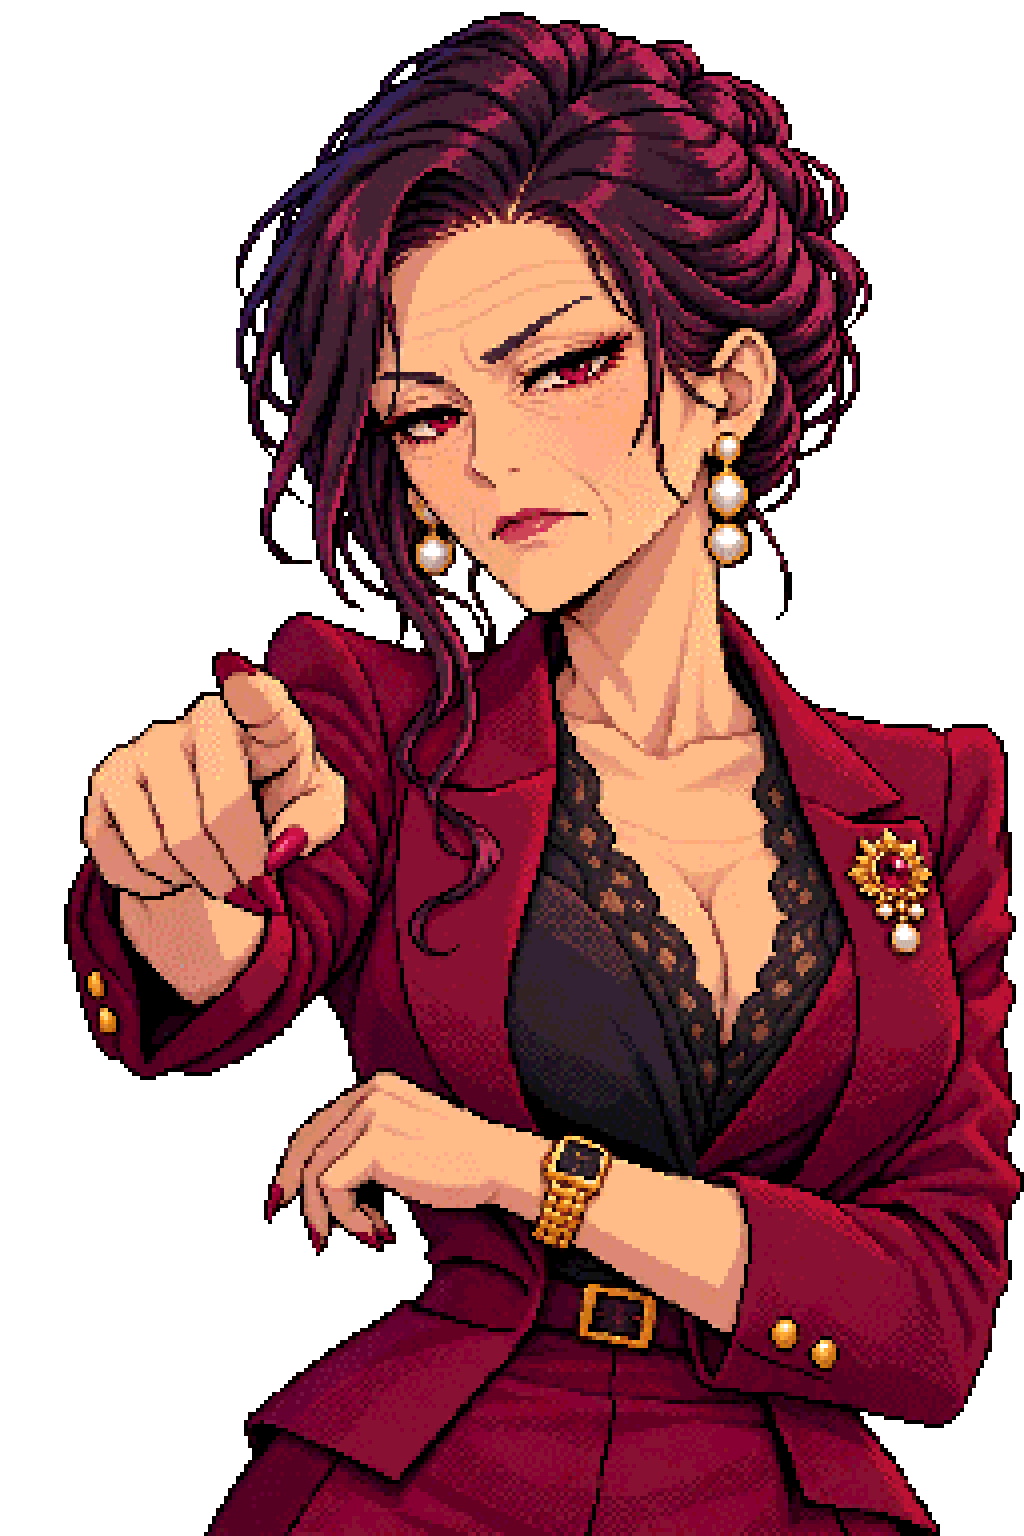
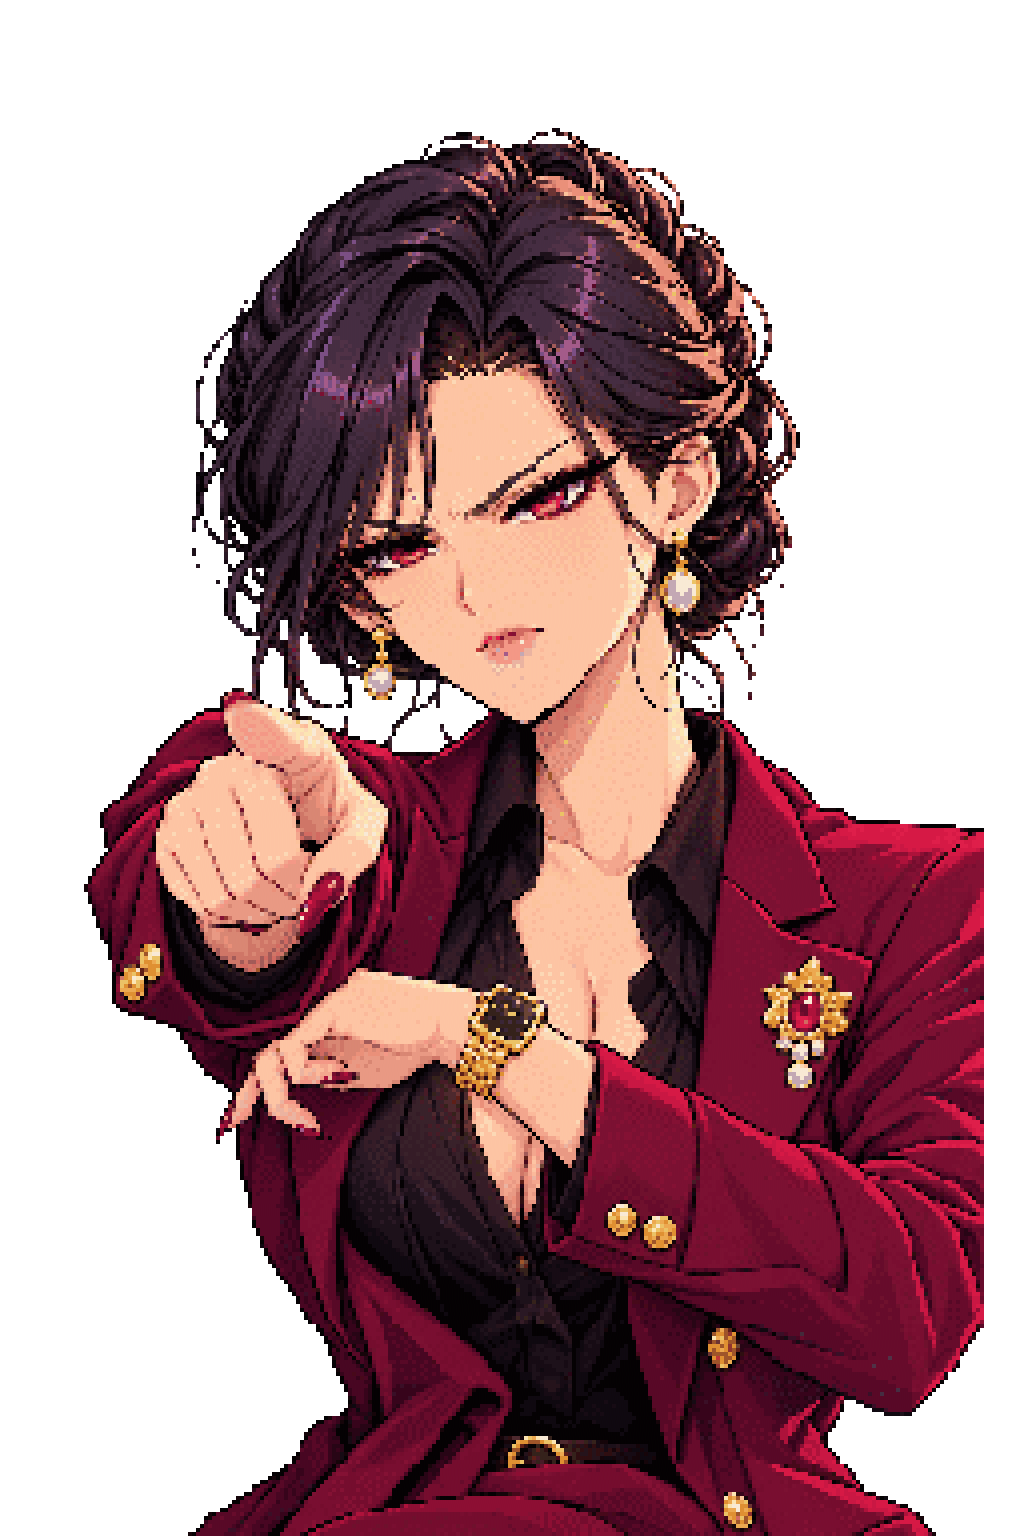
Tendo is 42, not 52: prompt and profile updated, previous portraits restored until re-generated
Claude-Session: https://claude.ai/code/session_01Eau5AueyeKfEKTxNRbKjxr

diff --git a/web/js/asset_prompts_ch2.js b/web/js/asset_prompts_ch2.js
@@ -6,7 +6,7 @@ Object.assign(CHARACTER_SHEETS, {
   pin: 'Character reference sheet of a sweet, dreamy 18-year-old bassist girl. Big soft rose-pink eyes, long fluffy silver-white hair down to her back with pastel coral-pink tips on the inner layer, a crossed silver hairpin on the bangs, a black beret with two small white plum-blossom flowers and a thin ribbon, a long black coat with white double-line trim and very wide sleeves embroidered with white plum blossoms, an off-shoulder white blouse with a big bow tie and a pink gem brooch, a black belt, short white shorts, a black lace-up garter on one thigh, a bass case covered in stickers. Black, white and rose-pink accents.',
   aoi: 'Character reference sheet of a cool 21-year-old drummer girl and band leader. Long navy-black hair in a high ponytail, calm sharp cobalt-blue eyes, silver ear cuffs, a black crop tank top under an open cobalt work shirt, low-slung cargo pants, drumsticks in her back pocket, taped fingers. Cobalt blue and black accents.',
   kuramochi: 'Character reference sheet of a quiet 28-year-old live-house lighting technician woman. Long brown hair in a low loose ponytail, tired honest amber eyes, a headset with microphone around her neck, a fitted black crew T-shirt with a small crescent moon logo, a tool belt, thick black work gloves always on her hands. Amber and black accents.',
-  tendo: 'Character reference sheet of an elegant, intimidating 52-year-old talent agency president woman, clearly in her fifties (fine wrinkles at the eyes and mouth, a mature face — not a young woman). Dark hair in a tight elegant updo, sharp smiling eyes with long lashes, deep wine-magenta tailored suit with a brooch, pearl earrings, and a very large square gold wristwatch on her left wrist that is always visible. Smiles politely but the eyes do not smile. Magenta and gold accents.',
+  tendo: 'Character reference sheet of a glamorous, intimidating 42-year-old talent agency president woman, a beautiful mature woman who looks late thirties: smooth skin with no wrinkles, sharp elegant features, attractive gacha-style adult beauty (not a young girl, not an old woman). Dark hair in a tight elegant updo, sharp smiling eyes with long lashes, deep wine-magenta tailored suit with a brooch, pearl earrings, and a very large square gold wristwatch on her left wrist that is always visible. Smiles politely but the eyes do not smile. Magenta and gold accents.',
   kirishima: 'Character reference sheet of a stern, handsome 34-year-old band manager man. Neat short black hair, narrow tired teal eyes, always in a plain black suit and dark tie, a radio transceiver clipped to the belt, a small worn notebook in the breast pocket. Bare wrists, no wristwatch. Teal green accents.',
 });
 

diff --git a/web/js/data_ch2.js b/web/js/data_ch2.js
@@ -409,6 +409,6 @@ Object.assign(PROFILES, {
   pin: '「크럼블」의 베이스 모모세 핀(18). 솜사탕 말투. 끝만 분홍인 흰 단발, 꽃 베레모. 루루를 동경한다.',
   aoi: '「크럼블」의 드럼이자 리더 사카키 아오이(21). 짧은 머리에 차분한 말투.',
   kuramochi: '라이브하우스 「크레센트」의 조명 기사 쿠라모치 시노(28). 점검표에 「이상 없음」이라고 서명했다.',
-  tendo: '소속사 「텐도 프로모션」 사장 텐도 마키(52). 사건 뒤 "루루가 리그를 만지는 걸 봤다"고 진술했다.',
+  tendo: '소속사 「텐도 프로모션」 사장 텐도 마키(42). 사건 뒤 "루루가 리그를 만지는 걸 봤다"고 진술했다.',
   kirishima: '「크럼블」의 매니저 키리시마 토루(34). 공연 중 떨어진 조명 리그에 깔려 숨졌다.',
 });

diff --git a/docs/PROMPTS_CH1.md b/docs/PROMPTS_CH1.md
@@ -585,7 +585,7 @@ Character design in the style of modern Japanese anime mobile gacha games (subcu
 
 Native resolution about 320x213 pixels, upscaled with nearest-neighbor so every pixel is a clearly visible square block. Full color, limited palette of about 24 colors.
 
-Character reference sheet of an elegant, intimidating 52-year-old talent agency president woman, clearly in her fifties (fine wrinkles at the eyes and mouth, a mature face — not a young woman). Dark hair in a tight elegant updo, sharp smiling eyes with long lashes, deep wine-magenta tailored suit with a brooch, pearl earrings, and a very large square gold wristwatch on her left wrist that is always visible. Smiles politely but the eyes do not smile. Magenta and gold accents.
+Character reference sheet of a glamorous, intimidating 42-year-old talent agency president woman, a beautiful mature woman who looks late thirties: smooth skin with no wrinkles, sharp elegant features, attractive gacha-style adult beauty (not a young girl, not an old woman). Dark hair in a tight elegant updo, sharp smiling eyes with long lashes, deep wine-magenta tailored suit with a brooch, pearl earrings, and a very large square gold wristwatch on her left wrist that is always visible. Smiles politely but the eyes do not smile. Magenta and gold accents.
 ```
 
 **`tendo_smile.png`

diff --git a/docs/03_characters.md b/docs/03_characters.md
@@ -194,7 +194,7 @@
 | **키리시마 토루** | 34 | 매니저. 무뚝뚝, 항상 검은 정장 | 피해자(사망). 조명 고정 불량을 알고 막으려 했다. 루루에게 "더 큰 소속사로 가라"고 등을 떠민 유일한 사람 |
 | **모모세 핀** | 18 | 멤버. 힐링계 솜사탕 말투 | 증인. 미화 왜곡(루루를 반짝이로 그림) |
 | **사카키 아오이** | 21 | 리더. 쿨계, 짧은 머리 | 증인. 소속사 사장의 비용 삭감을 알고 있었음 |
-| **텐도 마사키** | 52 | 소속사 사장. 번쩍이는 금시계 | 흑막. 정비비를 아껴 사고를 낸 뒤 루루에게 책임을 돌리려 함. 편집국에 연락한 흔적(빈 말풍선 명함) |
+| **텐도 마사키** | 42 | 소속사 사장. 번쩍이는 금시계 | 흑막. 정비비를 아껴 사고를 낸 뒤 루루에게 책임을 돌리려 함. 편집국에 연락한 흔적(빈 말풍선 명함) |
 | **"고참 팬" 야마다** | 40 | 오타쿠 팬. 응원봉 8개 | 증인. 라이브를 전부 녹화해서 세트리스트 타임라인 단서 제공. 개그 담당 |
 
 ### 3장 「둘 중 하나」

diff --git a/docs/12_story_plan.md b/docs/12_story_plan.md
@@ -244,7 +244,7 @@
 | 모모세 핀 | 18 | 베이스. 솜사탕 말투, 루루를 동경 | 증인 (미화) | 보라 `#a07ad8` |
 | 사카키 아오이 | 21 | 드럼·리더(여성). 짧은 머리, 쿨함 | 협력자. 렌탈 견적서를 찾아 줌 | 파랑 `#3a78c9` |
 | 쿠라모치 시노 | 28 | 「크레센트」 조명 기사(여성). 짧은 단발, 헤드셋, 작업 장갑 | 용의자 (점검 과실) / 증인 (생략) | 호박 `#d9a21b` |
-| 텐도 마키 | 52 | 소속사 「텐도 프로모션」 사장(여성). 올림머리, 큰 사각 금시계 | 흑막. 고의로 거짓말 | 자홍 `#b0306a` |
+| 텐도 마키 | 42 | 소속사 「텐도 프로모션」 사장(여성). 올림머리, 큰 사각 금시계 | 흑막. 고의로 거짓말 | 자홍 `#b0306a` |
 | 강력계 형사 (1장과 같은 사람) | — | — | 결론 장면 | — |
 
 ### 4-2. 장소와 무대 배치
